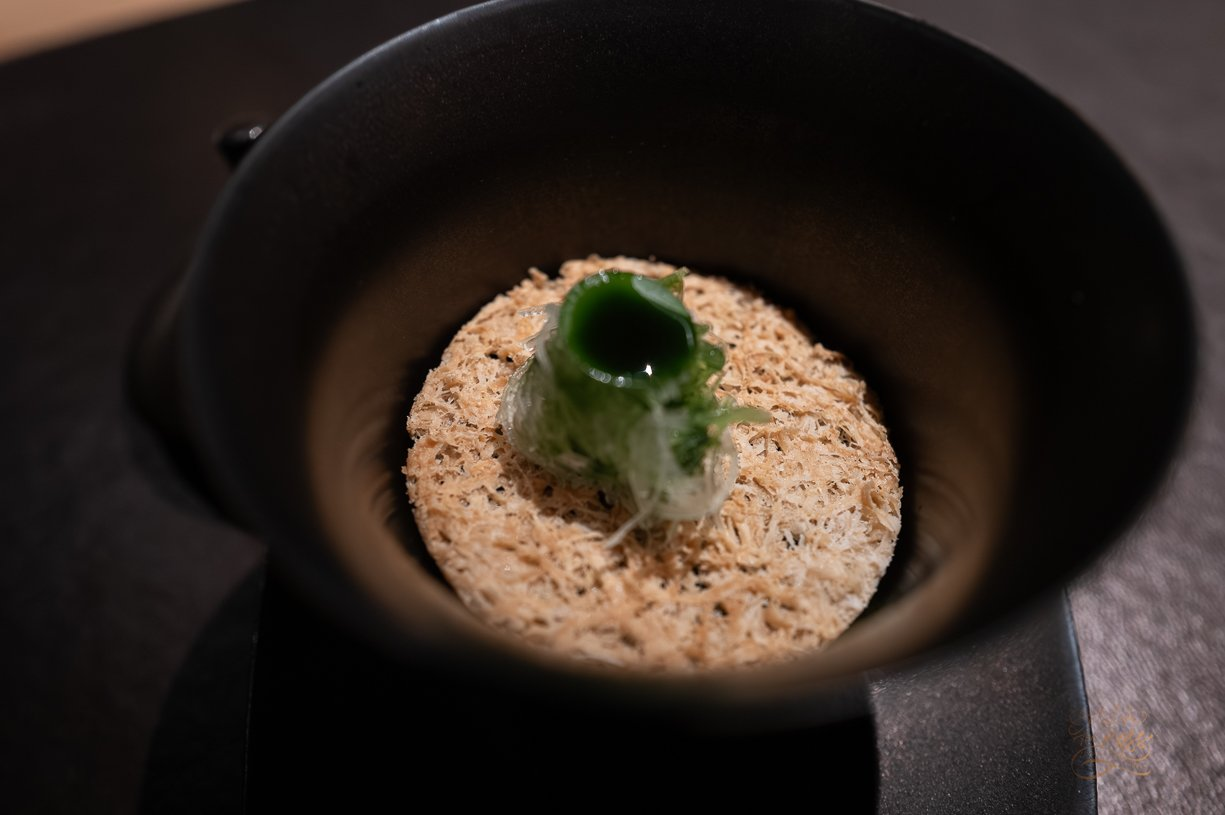
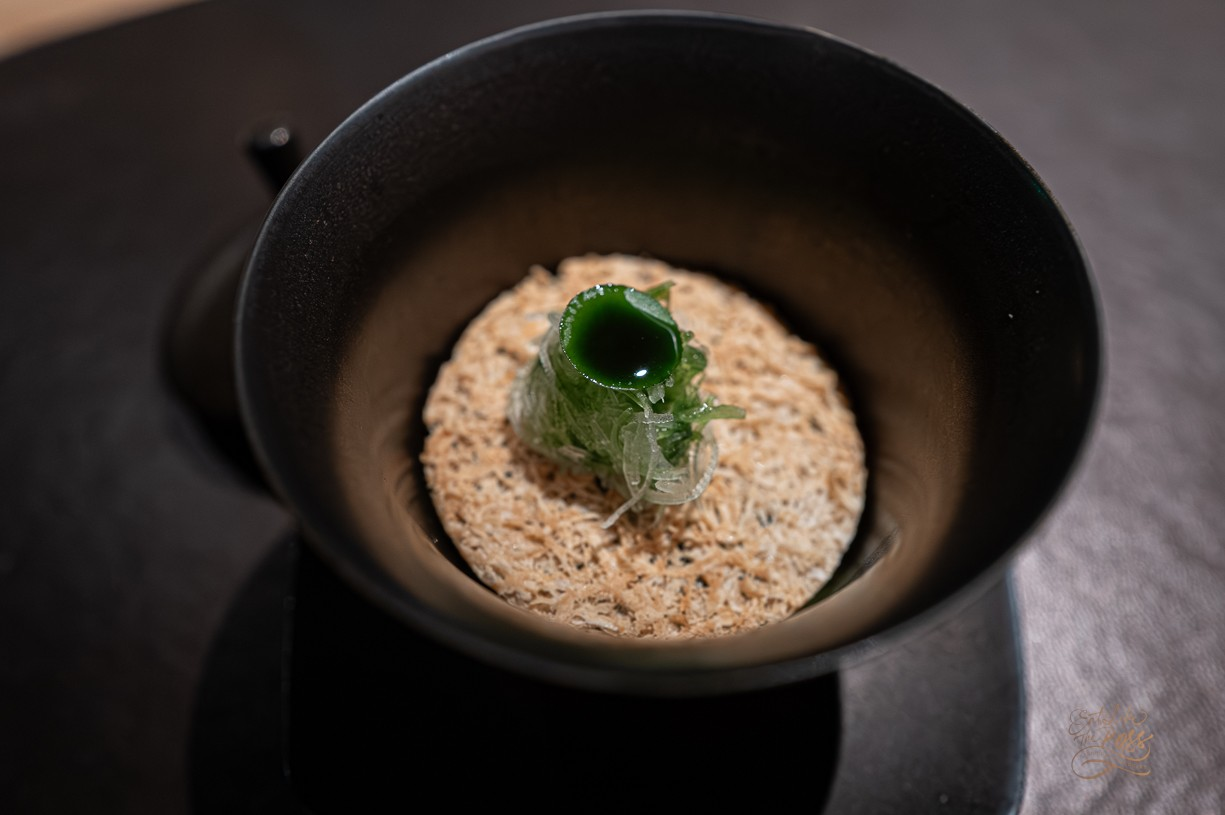
taian-table: photos as shot (uncropped originals replace pre-cropped 3:2)
Claude-Session: https://claude.ai/code/session_017cY6J6uPkEjNrLqN3xSHNx

diff --git a/posts/taian-table.md b/posts/taian-table.md
@@ -11,7 +11,7 @@ restaurant:
   cuisine: "Modern"
   style: "Innovative"
   awards: ["MICHELIN 3★"]
-cover: "./images/taian-table/cover.jpg | เอแคลร์เครื่องเทศสอดไส้มูสฟัวกราส์ ท็อปถั่วพิสตาชิโอ ใบชิโสะม่วง และแผ่นช็อกโกแลต บนฐานเซรามิกสีขาว ร้าน Taian Table เซี่ยงไฮ้"
+cover: "./images/taian-table/cover.jpg | เอแคลร์เครื่องเทศสอดไส้มูสฟัวกราส์ ท็อปถั่วพิสตาชิโอ ใบชิโสะม่วง และแผ่นช็อกโกแลต บนฐานเซรามิกสีขาว ร้าน Taian Table เซี่ยงไฮ้ | focus=0.5,0.42 | zoom=1.4"
 bill: "2888 CNY / Pax"
 billBand: "฿฿฿฿"
 visit: Jan-2026

diff --git a/posts/taian-table.en.md b/posts/taian-table.en.md
@@ -11,7 +11,7 @@ restaurant:
   cuisine: "Modern"
   style: "Innovative"
   awards: ["MICHELIN 3★"]
-cover: "./images/taian-table/cover.jpg | Spiced éclair filled with foie gras mousse, topped with pistachios, purple shiso leaves and a chocolate disc, on a white ceramic base, Taian Table, Shanghai"
+cover: "./images/taian-table/cover.jpg | Spiced éclair filled with foie gras mousse, topped with pistachios, purple shiso leaves and a chocolate disc, on a white ceramic base, Taian Table, Shanghai | focus=0.5,0.42 | zoom=1.4"
 bill: "2888 CNY / Pax"
 visit: Jan-2026
 hashtags: [EatLikeTheBoss, eatliketheboss, Gastronomy, FineDining, TaianTable, Shanghai, michelinguide, michelinstar, tatlerdining, bestchefaward]
